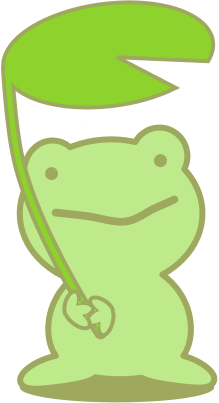
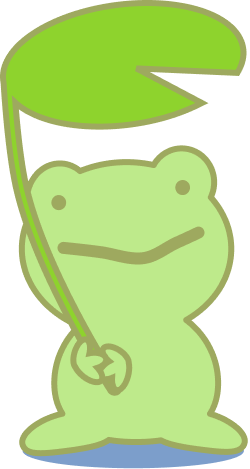
임시 스플래시

diff --git a/greeni-cli/src/screens/SplashScreen.js b/greeni-cli/src/screens/SplashScreen.js
@@ -9,10 +9,14 @@ const { width: W, height: H } = Dimensions.get("window");
 // 원본 비율(레이아웃 안정화)
 const AR = {
   cloud: 522 / 234,   // ≈2.23
-  //rain: 606 / 605,    // ≈1.00
-  greeni: 169 / 311,  // ≈0.54
-  ground: 1145 / 210, // ≈5.45
-  sun: 117 / 117      // 1
+  sun: 117 / 117,     // 1
+  pond: 1136 / 678,
+  greeniUmbrella: 250 / 469,
+  leaf1: 454 / 164,
+  leaf2: 142 / 52,
+  leaf3: 86 / 28,
+  leaf4: 324 / 130,
+  flower: 170 / 138,
 };
 
 export default function SplashScreen({ onDone }) {
@@ -46,7 +50,7 @@ export default function SplashScreen({ onDone }) {
       Animated.parallel([
         // 비: 아래로 떨어지며 서서히 사라짐
         Animated.timing(rainDropY, {
-          toValue: H * 0.5, //0.06
+          toValue: H * 0.5, //gpt 추천 값 0.06
           duration: DURATION,
           easing: EASE,
           useNativeDriver: true,
@@ -99,11 +103,55 @@ export default function SplashScreen({ onDone }) {
     <View style={styles.root}>
       <StatusBar style="dark" />
 
-      {/* 바닥 */}
-      <Animated.Image source={require("../assets/images/ground.png")} style={styles.ground} resizeMode="contain" />
+      {/* ground + greeni만 수정: 연못(pond)을 기준으로 잎/꽃/그리니를 종속 */}
+      <View style={styles.pondWrap}>
+        {/* 연못 */}
+        <Animated.Image
+          source={require("../assets/images/pond.png")}
+          style={styles.pond}
+          resizeMode="contain"
+        />
 
-      {/* 개구리 */}
-      <Animated.Image source={require("../assets/images/greeni.png")} style={styles.greeni} resizeMode="contain" />
+        {/* 큰 연잎(그리니 아래) */}
+        <Animated.Image
+          source={require("../assets/images/leaf1.png")}
+          style={styles.leaf1}
+          resizeMode="contain"
+        />
+
+        {/* 오른쪽 아래 큰 연잎(부분) */}
+        <Animated.Image
+          source={require("../assets/images/leaf4.png")}
+          style={styles.leaf4}
+          resizeMode="contain"
+        />
+
+        {/* 작은 연잎들 */}
+        <Animated.Image
+          source={require("../assets/images/leaf2.png")}
+          style={styles.leaf2}
+          resizeMode="contain"
+        />
+        <Animated.Image
+          source={require("../assets/images/leaf3.png")}
+          style={styles.leaf3}
+          resizeMode="contain"
+        />
+
+        {/* 꽃 */}
+        <Animated.Image
+          source={require("../assets/images/flower.png")}
+          style={styles.flower}
+          resizeMode="contain"
+        />
+
+        {/* 그리니(연못 기준) */}
+        <Animated.Image
+          source={require("../assets/images/umbrella_greeni_big.png")}
+          style={styles.greeni}
+          resizeMode="contain"
+        />
+      </View>
 
       {/* 비 */}
       <Animated.Image
@@ -116,9 +164,21 @@ export default function SplashScreen({ onDone }) {
       />
 
       {/* 구름 */}
-      <Animated.Image source={require("../assets/images/cloud.png")} style={[styles.cloud1, { transform: [{ translateX: cloud1X }] }]} resizeMode="contain" />
-      <Animated.Image source={require("../assets/images/cloud.png")} style={[styles.cloud2, { transform: [{ translateX: cloud2X }] }]} resizeMode="contain" />
-      <Animated.Image source={require("../assets/images/cloud.png")} style={[styles.cloud3, { transform: [{ translateX: cloud3X }] }]} resizeMode="contain" />
+      <Animated.Image
+        source={require("../assets/images/cloud.png")}
+        style={[styles.cloud1, { transform: [{ translateX: cloud1X }] }]}
+        resizeMode="contain"
+      />
+      <Animated.Image
+        source={require("../assets/images/cloud.png")}
+        style={[styles.cloud2, { transform: [{ translateX: cloud2X }] }]}
+        resizeMode="contain"
+      />
+      <Animated.Image
+        source={require("../assets/images/cloud.png")}
+        style={[styles.cloud3, { transform: [{ translateX: cloud3X }] }]}
+        resizeMode="contain"
+      />
 
       {/* 해 */}
       <Animated.Image
@@ -184,9 +244,7 @@ const styles = StyleSheet.create({
   rain: {
     position: "absolute",
     zIndex: 4,
-    //top: 0,
     width: W * 1.5,
-    //aspectRatio: AR.rain,
   },
 
   titleWrap: {
@@ -206,21 +264,81 @@ const styles = StyleSheet.create({
     color: colors.brown,
   },
 
-  greeni: {
-    position: "absolute",
-    zIndex: 3,
-    bottom: H * 0.1,
-    left: W * 0.1,
-    width: W * 0.3,
-    aspectRatio: AR.greeni,
-  },
-
-  ground: {
+  /*** 연못 ***/
+  pondWrap: {
     position: "absolute",
     zIndex: 2,
-    bottom: -H * 0.13,
-    left: -W * 1.49,
-    width: W * 3,
-    aspectRatio: AR.ground,
+    bottom: -H * 0.03,   // 필요하면 -0.02~-0.08 사이에서 조절
+    alignSelf: "center",
+    width: W * 1.22,     // 연못 크기(시안처럼 보이게 조절)
+    aspectRatio: AR.pond,
+  },
+  pond: {
+    position: "absolute",
+    left: 0,
+    top: 0,
+    width: "100%",
+    height: "100%",
+  },
+
+  /*** ✅ pondWrap(연못) 기준 배치: 잎/꽃/그리니 ***/
+  // 큰 연잎(그리니 발판)
+  leaf1: {
+    position: "absolute",
+    zIndex: 3,
+    left: "6%",
+    bottom: "8%",
+    width: "66%",
+    aspectRatio: AR.leaf1,
+  },
+
+  // 오른쪽 아래 큰 연잎(부분 노출)
+  leaf4: {
+    position: "absolute",
+    zIndex: 2,
+    right: "-18%",
+    bottom: "-10%",
+    width: "62%",
+    aspectRatio: AR.leaf4,
+  },
+
+  // 작은 연잎(중앙 하단 쪽)
+  leaf2: {
+    position: "absolute",
+    zIndex: 2,
+    left: "48%",
+    bottom: "6%",
+    width: "18%",
+    aspectRatio: AR.leaf2,
+  },
+
+  // 작은 연잎(더 아래쪽)
+  leaf3: {
+    position: "absolute",
+    zIndex: 2,
+    left: "36%",
+    bottom: "2%",
+    width: "14%",
+    aspectRatio: AR.leaf3,
+  },
+
+  // 꽃(오른쪽)
+  flower: {
+    position: "absolute",
+    zIndex: 3,
+    right: "10%",
+    bottom: "12%",
+    width: "18%",
+    aspectRatio: AR.flower,
+  },
+
+  // 그리니(연못 기준)
+  greeni: {
+    position: "absolute",
+    zIndex: 4,
+    left: "8%",
+    bottom: "18%",
+    width: "26%",
+    aspectRatio: AR.greeniUmbrella,
   },
 });

diff --git a/greeni-cli/src/App.js b/greeni-cli/src/App.js
@@ -116,7 +116,7 @@ export default function App() {
             </Stack.Screen>
           </Stack.Navigator>
         ) : step === "auth" ? (
-          <AuthStack  />
+          <MainStack  />
         ) : step === "profile" ? (
           <ProfileStack />
         ) : (
